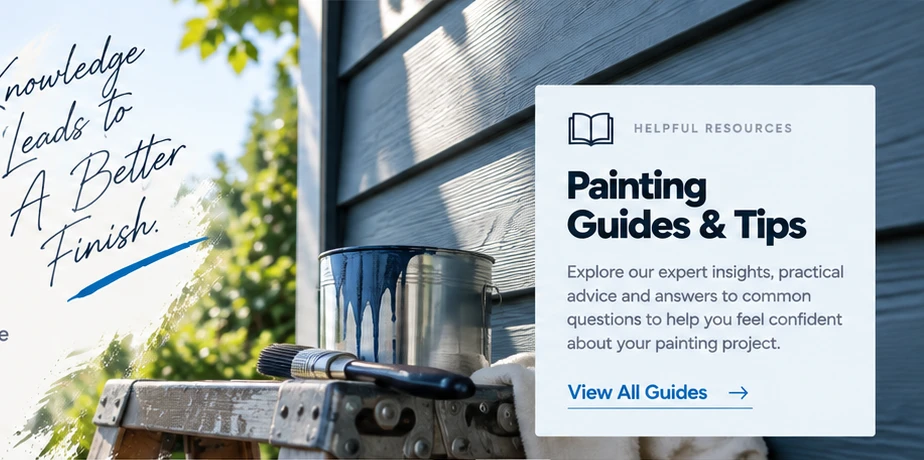
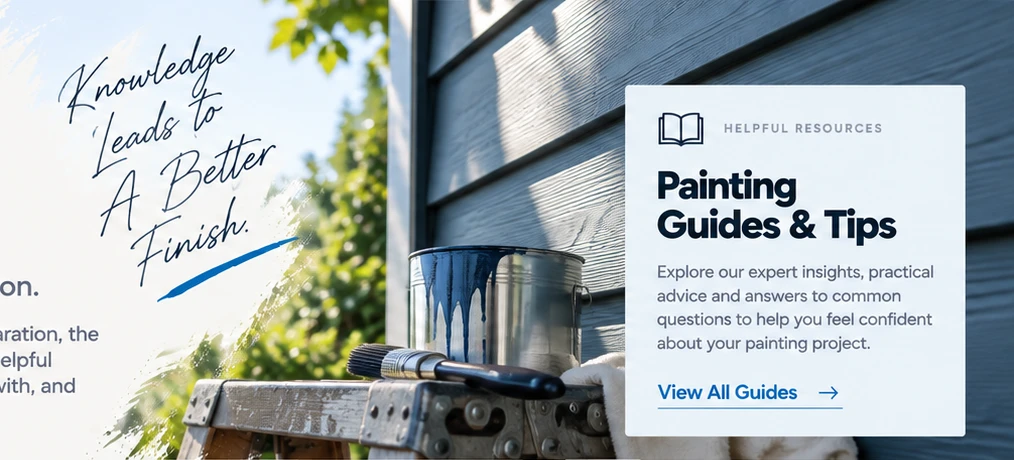
Refine PDF artwork isolation, panel fit and responsive review

diff --git a/app/components/homepage-original.js b/app/components/homepage-original.js
@@ -10,7 +10,7 @@ function Arrow(){return <span aria-hidden="true">⟶</span>}
 function Button({children='Get a Quote',href='#quote',outline=false}){return <a className={'o-button'+(outline?' o-outline':'')} href={href}>{children}<Arrow/></a>}
 function Label({children,center=false}){return <p className={'o-label'+(center?' o-centered':'')}>{children}</p>}
 function Benefits({items,className=''}){return <div className={'o-benefits '+className}>{items.map(([icon,title])=><div key={title}><Icon name={icon}/><strong>{title}</strong></div>)}</div>}
-function Logo({footer=false}){return <a className={'o-logo'+(footer?' o-logo-footer':'')} href="/" aria-label="We Paint Siding home"><img src="/images/wepaintsodinglogo.jpg" alt="We Paint Siding.com" width="1024" height="237"/></a>}
+function Logo({footer=false}){return <a className={'o-logo'+(footer?' o-logo-footer':'')} href="/" aria-label="We Paint Siding home"><img src={footer?'/images/original-home/footer-logo.svg':'/images/wepaintsodinglogo.jpg'} alt="We Paint Siding.com" width="1024" height="237"/></a>}
 function Navigation(){const[mobile,setMobile]=useState(false),[open,setOpen]=useState('');const root=useRef(null),toggle=useRef(null),triggers=useRef({});const close=()=>{setMobile(false);setOpen('')};useEffect(()=>{const handler=e=>{if(e.type==='keydown'&&e.key==='Escape'){if(open){triggers.current[open]?.focus();setOpen('')}else{setMobile(false);toggle.current?.focus()}}else if(e.type==='pointerdown'&&!root.current?.contains(e.target))close()};document.addEventListener('keydown',handler);document.addEventListener('pointerdown',handler);return()=>{document.removeEventListener('keydown',handler);document.removeEventListener('pointerdown',handler)}},[open]);const groups=[['exterior','Exterior Painting','/exterior-painting',surfaces.map(s=>[s.title,'/exterior-painting/'+s.slug])],['interior','Interior Painting','#interior',[['Walls & Ceilings','#interior'],['Trim & Doors','#interior'],['Cabinet Painting','/cabinet-painting']]],['locations','Locations','/locations',locations.map(s=>[s.name,'/locations/'+s.slug])]];return <header className="o-header" ref={root}><Logo/><button className="o-menu-toggle" type="button" ref={toggle} aria-label={mobile?'Close navigation':'Open navigation'} aria-controls="o-navigation" aria-expanded={mobile} onClick={()=>{setMobile(!mobile);setOpen('')}}><span/><span/><span/></button><nav id="o-navigation" className={mobile?'o-navigation o-is-open':'o-navigation'} aria-label="Main navigation"><a className="o-home-link" href="/" aria-current="page">Home</a>{groups.map(([id,name,href,items])=><div className={'o-nav-group o-nav-'+id} key={id} onPointerEnter={e=>{if(e.pointerType==='mouse')setOpen(id)}} onPointerLeave={e=>{if(e.pointerType==='mouse'&&!e.currentTarget.contains(document.activeElement))setOpen('')}} onBlur={e=>{if(!e.currentTarget.contains(e.relatedTarget))setOpen('')}}><div className="o-nav-pair"><a href={href} onClick={close}>{name}</a><button ref={el=>{triggers.current[id]=el}} aria-label={'Show '+name+' menu'} aria-expanded={open===id} aria-controls={'o-drop-'+id} onClick={()=>setOpen(open===id?'':id)}><span/></button></div><div id={'o-drop-'+id} className="o-dropdown" hidden={open!==id}>{items.map(([title,url])=><a key={title} href={url} onClick={close}>{title}<Arrow/></a>)}</div></div>)}<a href="/before-and-after" onClick={close}>Our Work</a><a href="/about" onClick={close}>About Us</a><a href="/faq" onClick={close}>FAQ</a><a href="/contact" onClick={close}>Contact</a><Button/></nav></header>}
 const exteriorIcons=['spray','layers','siding','home','brick','stucco','wood','paint','cabinet','building'];
 const cabinets=[['kitchen','Kitchen Cabinet Painting','Give your kitchen a fresh, modern look with a smooth, durable finish.'],['vanity','Bathroom Vanity Painting','Refresh your bathroom with a clean, stylish finish built to last.'],['cabinet','Cabinet Doors & Drawer Fronts','Update doors and drawer fronts for a like-new look at a lower cost.'],['drawer','Cabinet Frames, Boxes & End Panels','A complete, consistent finish for all visible and functional cabinet components.'],['shelf','Built-In Cabinetry','Enhance your built-ins with a smooth, professional finish that complements your space.']];
@@ -23,7 +23,7 @@ function Quote(){const[status,setStatus]=useState(''),[service,setService]=useSt
 function Footer(){const[status,setStatus]=useState(''),[social,setSocial]=useState('');const groups=[['Our Services',[['Interior Painting','#interior'],['Exterior Painting','/exterior-painting'],['Cabinet Painting','/cabinet-painting'],['Commercial Painting','/exterior-painting/commercial-painting'],['Color Consultation','#quote']]],['Company',[['About Us','/about'],['Our Work','/before-and-after'],['Our Process','#process'],['Painting Knowledge','#knowledge'],['FAQs','/faq'],['Contact Us','/contact']]],['Resources',[['Painting Guides & Tips','/blog'],['Color Ideas','/blog/choosing-a-colour-for-your-home'],['Surface Preparation','/blog/why-surface-preparation-matters'],['Product Recommendations','/blog'],['Maintenance Advice','/blog/caring-for-a-fresh-paint-finish']]]];return <footer className="o-footer"><Art name="footer-top" className="o-footer-top"/><div className="o-footer-grid"><div className="o-footer-brand"><Logo footer/><p>Professional painting services for homes, businesses and communities. We bring color, protection and possibility to every space.</p><div className="o-socials" aria-label="Social profiles">{[['f','Facebook'],['◎','Instagram'],['p','Pinterest'],['▶','YouTube'],['in','LinkedIn']].map(([icon,name])=><button key={name} type="button" aria-label={name} onClick={()=>setSocial(name+' profile link is not available yet.')}>{icon}</button>)}</div><p className="o-social-status" role="status">{social}</p></div>{groups.map(([title,links])=><nav className="o-footer-links" aria-label={title} key={title}><h2>{title}</h2>{links.map(([text,url])=><a key={text} href={url}>{text}</a>)}</nav>)}<div className="o-newsletter"><h2>Stay in touch</h2><p>Get helpful tips, color inspiration and special offers delivered to your inbox.</p><form onSubmit={e=>{e.preventDefault();setStatus('Newsletter registration is not active yet. Your email has not been submitted.')}}><label><span className="o-sr">Your Email Address</span><input type="email" placeholder="Your Email Address" required/></label><button className="o-button">Subscribe<Arrow/></button></form><small><Icon name="shield"/>Registration is not active yet.</small><p className="o-newsletter-status" role="status">{status}</p></div></div><Art name="footer-swash" className="o-footer-swash" alt="More Than Paint. Brighter Tomorrows."/><div className="o-footer-bottom"><span>© {new Date().getFullYear()} We Paint Siding. All rights reserved.</span><nav aria-label="Legal">{[['Privacy Policy','privacy-policy'],['Cookies Policy','cookies-policy'],['Disclaimer','disclaimer'],['Terms of Use','terms-of-use'],['Accessibility','accessibility'],['Sitemap','sitemap']].map(([title,url])=><a key={url} href={'/'+url}>{title}</a>)}</nav><span className="o-footer-motto"><Icon name="leaf"/>Beautiful spaces. Stronger communities.</span></div></footer>}
 export default function OriginalHomepage(){const[faq,setFaq]=useState(0);return <div className="wps-original"><a className="o-skip" href="#o-main">Skip to content</a><Navigation/><main id="o-main">
 <section className="o-hero" aria-labelledby="o-hero-title"><Art name="hero-art" className="o-hero-art" alt="Modern white siding home with original dry-brush artwork. Painting Stronger Communities." eager/><div className="o-hero-copy"><Label>Exterior & Interior Painting</Label><h1 id="o-hero-title">A Fresh Finish<br/><em>for a Brighter<br/>Tomorrow.</em></h1><p>Professional exterior and interior painting for homes and businesses across the GTA, Golden Horseshoe and surrounding communities.</p><div className="o-actions"><Button/><Button href="#services" outline>Explore Our Services</Button></div><Benefits className="o-hero-benefits" items={[["home","Beautiful Exteriors"],["cabinet","Modern Interiors"],["paint","Spaces You’ll Love Longer"]]}/></div><Art name="hero-sign" className="o-hero-sign" alt="More Than Just Paint. People. Properties. Communities."/></section>
-<section className="o-services" id="services" aria-labelledby="o-services-title"><div className="o-services-main"><Art name="services-left" className="o-service-left" alt="White siding exterior framed by original paint strokes"/><Art name="services-right" className="o-service-right" alt="Painted kitchen cabinetry and the original handwritten Same Spaces, Brighter Days artwork"/><div className="o-services-intro"><Label center>Our services</Label><h2 id="o-services-title">What We <em>Paint</em></h2><p>From exterior finishes that protect and impress to beautiful interiors that transform your space, We Paint Siding delivers high-quality finishes for homes and businesses across Ontario.</p></div><div className="o-service-columns"><article><div className="o-service-number"><b>01</b><Label>Exterior surfaces</Label></div><h3>Exterior<br/><em>Painting</em></h3><p>Durable, long-lasting exterior painting for siding, brick, stucco, wood, aluminum and more. We help protect your property from the elements while giving it a fresh, clean and modern look.</p><a className="o-text-link" href="/exterior-painting">Explore Exterior Painting<Arrow/></a></article><Art name="service-divider" className="o-service-divider"/><article><div className="o-service-number"><b>02</b><Label>Interior spaces</Label></div><h3>Interior<br/><em>Painting</em></h3><p>Give your walls, ceilings, trim and cabinets a fresh new look. Our professional interior painting delivers a smooth, durable finish that enhances your space, with cabinet painting included in our interior services.</p><a className="o-text-link" href="#interior">Explore Interior Painting<Arrow/></a></article></div></div><div className="o-service-assurances"><Benefits items={[["shield","Protect Your Property"],["home","Beautiful Results"],["paint","Professional Craftsmanship"],["people","Serving Ontario Communities"]]}/><div className="o-people"><span>More than just paint.</span><strong>People　 |　 Properties　 |　 Communities</strong><i/></div></div></section>
+<section className="o-services" id="services" aria-labelledby="o-services-title"><div className="o-services-main"><Art name="services-left" className="o-service-left" alt="White siding exterior framed by original paint strokes"/><Art name="services-right" className="o-service-right" alt="Painted kitchen cabinetry and the original handwritten Same Spaces, Brighter Days artwork"/><div className="o-services-intro"><Label center>Our services</Label><h2 id="o-services-title">What We <em>Paint</em></h2><p>From exterior finishes that protect and impress to beautiful interiors that transform your space, We Paint Siding delivers high-quality finishes for homes and businesses across Ontario.</p></div><div className="o-service-columns"><article><div className="o-service-number"><b>01</b><Label>Exterior surfaces</Label></div><h3>Exterior<br/><em>Painting</em></h3><p>Durable, long-lasting exterior painting for siding, brick, stucco, wood, aluminum and more. We help protect your property from the elements while giving it a fresh, clean and modern look.</p><a className="o-text-link" href="/exterior-painting">Explore Exterior Painting<Arrow/></a></article><Art name="service-divider" className="o-service-divider"/><article><div className="o-service-number"><b>02</b><Label>Interior spaces</Label></div><h3>Interior<br/><em>Painting</em></h3><p>Give your walls, ceilings, trim and cabinets a fresh new look. Our professional interior painting delivers a smooth, durable finish that enhances your space. Cabinet painting is part of our interior services.</p><a className="o-text-link" href="#interior">Explore Interior Painting<Arrow/></a></article></div></div><div className="o-service-assurances"><Benefits items={[["shield","Protect Your Property"],["home","Beautiful Results"],["paint","Professional Craftsmanship"],["people","Serving Ontario Communities"]]}/><div className="o-people"><span>More than just paint.</span><strong>People　 |　 Properties　 |　 Communities</strong><i/></div></div></section>
 <section className="o-exterior" id="exterior" aria-labelledby="o-exterior-title"><div className="o-feature-main"><Art name="exterior-art" className="o-feature-art" alt="White home with original brush strokes. Built to Withstand More. Weather protection, enhanced curb appeal, long-lasting finishes and a cleaner, brighter home."/><div className="o-feature-copy"><Label>Exterior painting services</Label><h2 id="o-exterior-title">Exterior <em>Painting</em></h2><h3>Protect. Enhance. Add Lasting Value.</h3><p>Your home’s exterior faces changing weather, strong sun, moisture and everyday wear. Our professional exterior painting services help protect your property from the elements while giving it a fresh, modern look. We work with a wide range of exterior surfaces, using high-quality coatings and proven preparation methods to deliver a smooth, durable finish that lasts.</p><p>Whether you’re updating your home, preparing a property for sale, or maintaining a commercial building, We Paint Siding provides reliable exterior painting services across Ontario.</p><div className="o-feature-action"><Button href="/exterior-painting">View All Exterior Painting Services</Button><Benefits items={[["paint","Professional Results You Can Trust"]]}/></div></div></div><div className="o-exterior-strip"><div className="o-strip-label"><Label>Our exterior painting services</Label><span>Different surfaces. A higher standard.</span></div><div className="o-exterior-links">{surfaces.map((s,i)=><a href={'/exterior-painting/'+s.slug} key={s.slug}><Icon name={exteriorIcons[i]}/><span>{s.title.replace('Exterior Spray','Spray').replace('Aluminum Siding','Aluminum')}</span></a>)}</div></div></section>
 <section className="o-process" id="process" aria-labelledby="o-process-title"><div className="o-process-main"><Art name="process-sign" className="o-process-sign" alt="It’s More Than Paint."/><div className="o-process-copy"><Label>Our painting process</Label><h2 id="o-process-title">A Better Finish<br/><em>Starts with a<br/>Smarter Process.</em></h2><p>We follow a detailed, proven process to ensure every project is completed with care, precision and lasting results. From preparation to the final coat, our focus is on quality at every step.</p><div className="o-feature-action"><Button href="#services">Our Services</Button><span className="o-small-motto">Quality process.<br/>Lasting results.</span></div></div><ol className="o-steps">{steps.map(([icon,title,copy,motto],i)=><li key={title}><b>0{i+1}</b><div className="o-step-icon"><Icon name={icon}/></div><h3>{title}</h3><p>{copy}</p><span>{motto}</span></li>)}</ol></div><div className="o-commitment"><Art name="process-photo" className="o-commitment-art" alt="Beautiful Spaces. Brighter Tomorrows. White painted exterior with the original brush edge."/><div className="o-commitment-copy"><div><Icon name="paint"/><span>Our<br/>commitment</span></div><div><h3>More Than a Paint Job.<br/><em>A Higher Standard.</em></h3><p>We combine quality materials, professional techniques and attention to detail to deliver results you can be proud of.</p></div></div></div></section>
 <section className="o-interior" id="interior" aria-labelledby="o-interior-title"><div className="o-feature-main"><Art name="interior-art" className="o-feature-art" alt="Blue painted cabinets with the reference brush edge and handwritten Same Cabinets, A Whole New Look artwork. Cost-effective upgrade, smooth durable finishes and beautiful spaces you’ll love."/><div className="o-feature-copy"><Label>Interior painting services</Label><h2 id="o-interior-title">Interior <em>Painting</em></h2><h3>A Fresh Look for the Heart of Your Home.</h3><p>Our professional interior painting services refresh your walls, ceilings, trim and doors. Cabinet painting is part of our interior service, giving your kitchen, bathroom or built-in cabinetry a clean, modern look without the cost of a full replacement.</p><p>We use high-quality coatings, proven preparation methods and careful attention to detail to deliver a smooth, durable finish that transforms your space.</p><div className="o-feature-action"><Button href="/cabinet-painting">View All Cabinet Painting Services</Button><Benefits items={[["paint","Modern Spaces. Lasting Impressions."]]}/></div></div></div><div className="o-cabinet-strip"><Label>Our cabinet painting services · Part of interior painting</Label><div>{cabinets.map(([icon,title,copy],i)=><a href={'/cabinet-painting/'+cabinetLinks[i].slug} key={title}><Icon name={icon}/><div><h3>{title}</h3><p>{copy}</p></div></a>)}</div></div></section>

diff --git a/public/homepage-review.html b/public/homepage-review.html
@@ -1,1 +1,1 @@
-<!doctype html><html><head><meta name="robots" content="noindex,nofollow"><meta name="viewport" content="width=device-width,initial-scale=1"><title>Homepage responsive review</title><style>*{box-sizing:border-box}body{margin:0;background:#dce1e5;font:14px Arial}header{position:sticky;top:0;z-index:5;padding:12px;display:flex;gap:12px;justify-content:center;background:#0b2538;color:white}button{padding:10px 16px;border:1px solid #a9c0d1;border-radius:4px;cursor:pointer;background:white;color:#06243b}button[aria-pressed=true]{background:#0075b9;color:white}main{padding:20px 0;overflow:auto;text-align:center}iframe{display:block;margin:auto;border:0;background:#fff;width:1280px;height:800px}</style></head><body><header><button data-width="1280" aria-pressed="true">Desktop 1280</button><button data-width="768" aria-pressed="false">Tablet 768</button><button data-width="390" aria-pressed="false">Mobile 390</button><button data-width="360" aria-pressed="false">Small mobile 360</button></header><main><iframe src="/" title="Homepage viewport preview"></iframe></main><script>const f=document.querySelector('iframe');function size(){try{f.style.height=f.contentDocument.documentElement.scrollHeight+'px'}catch{}}f.onload=()=>{new ResizeObserver(size).observe(f.contentDocument.body);f.contentDocument.addEventListener('load',size,true);size()};document.querySelectorAll('button').forEach(b=>b.onclick=()=>{f.style.width=b.dataset.width+'px';document.querySelectorAll('button').forEach(x=>x.setAttribute('aria-pressed',String(x===b)));requestAnimationFrame(size)})</script></body></html>
+<!doctype html><html><head><meta name="robots" content="noindex,nofollow"><meta name="viewport" content="width=device-width,initial-scale=1"><title>Homepage responsive review</title><style>*{box-sizing:border-box}body{margin:0;background:#dce1e5;font:14px Arial}header{position:sticky;top:0;z-index:5;padding:12px;display:flex;gap:12px;justify-content:center;background:#0b2538;color:white}button{padding:10px 16px;border:1px solid #a9c0d1;border-radius:4px;cursor:pointer;background:white;color:#06243b}button[aria-pressed=true]{background:#0075b9;color:white}main{padding:20px 0;overflow:auto;text-align:center}iframe{display:block;margin:auto;border:0;background:#fff;width:1280px;height:800px}</style></head><body><header><button data-width="1280" aria-pressed="true">Desktop 1280</button><button data-width="768" aria-pressed="false">Tablet 768</button><button data-width="390" aria-pressed="false">Mobile 390</button><button data-width="360" aria-pressed="false">Small mobile 360</button></header><main><iframe title="Homepage viewport preview"></iframe></main><script>const f=document.querySelector('iframe');fetch('/').then(r=>r.text()).then(html=>{f.srcdoc=html});function size(){try{f.style.height=f.contentDocument.documentElement.scrollHeight+'px'}catch{}}f.onload=()=>{new ResizeObserver(size).observe(f.contentDocument.body);f.contentDocument.addEventListener('load',size,true);size()};document.querySelectorAll('button').forEach(b=>b.onclick=()=>{f.style.width=b.dataset.width+'px';document.querySelectorAll('button').forEach(x=>x.setAttribute('aria-pressed',String(x===b)));requestAnimationFrame(size)})</script></body></html>

diff --git a/app/homepage-original.css b/app/homepage-original.css
@@ -48,3 +48,33 @@
 @media(prefers-reduced-motion:reduce){.wps-original *{scroll-behavior:auto;transition:none!important}}
 .wps-original .o-picture{display:block;overflow:hidden}.wps-original .o-picture>.o-art{width:100%;height:100%;object-fit:fill}.wps-original .o-social-status:empty{display:none}@media(max-width:760px){.wps-original .o-picture>.o-art{object-fit:cover;object-position:left}}
 @media(min-width:1101px){.wps-original .o-quote-form{min-height:30.5vw}}
+/* Visual comparison corrections: isolate artwork from flattened demo copy. */
+@media(min-width:761px){
+ .wps-original .o-hero-art{clip-path:polygon(0 0,100% 0,100% 100%,22% 100%,18% 82%,7% 63%,7% 44%,0 19%)}
+ .wps-original .o-service-right{clip-path:polygon(0 0,100% 0,100% 100%,0 100%,8% 88%,8% 43%,0 38%)}
+ .wps-original .o-exterior .o-feature-art{clip-path:polygon(0 0,100% 0,100% 100%,5% 100%,5% 76%,0 76%)}
+ .wps-original .o-work-art{clip-path:polygon(0 0,100% 0,100% 100%,12% 100%,12% 30%)}
+ .wps-original .o-about-art{clip-path:polygon(0 0,100% 0,100% 100%,0 100%,8% 87%,8% 32%)}
+ .wps-original .o-knowledge-art{width:57.16%;clip-path:polygon(0 0,100% 0,100% 100%,10% 100%,10% 55%,0 55%)}
+ .wps-original .o-service-columns article>p{font-size:1.02vw;line-height:1.33;margin-bottom:1.4vw}
+ .wps-original .o-process-copy h2{font-size:3.5vw;letter-spacing:-.06em}
+ .wps-original .o-process-copy>p{font-size:1.05vw}
+ .wps-original .o-steps{top:8vw}
+ .wps-original .o-steps p{font-family:Arial,sans-serif;font-size:.94vw;line-height:1.32;min-height:7.8vw}
+ .wps-original .o-guide-callout{padding:1.3vw 1.6vw}
+ .wps-original .o-guide-callout h3{font-size:1.95vw}
+ .wps-original .o-guide-callout p{font-family:Arial,sans-serif;font-size:1vw;line-height:1.3;margin:.9vw 0 1.2vw}
+ .wps-original .o-guide-callout .o-label{font-size:.58vw;margin-bottom:.8vw}
+ .wps-original .o-guide-callout .o-label svg{width:1.9vw;height:1.9vw}
+}
+.wps-original .o-feature-copy{z-index:3}.wps-original .o-project-caption,.wps-original .o-work-feature-caption{background:#042333}
+/* Artwork crops remain clean when they stack on small screens. */
+.wps-original .o-hero-art{clip-path:polygon(0 0,100% 0,100% 100%,22% 100%,18% 82%,7% 63%,7% 44%,0 19%)}
+.wps-original .o-service-right{clip-path:polygon(0 0,100% 0,100% 100%,0 100%,8% 88%,8% 43%,0 38%)}
+.wps-original .o-exterior .o-feature-art{clip-path:polygon(0 0,100% 0,100% 100%,5% 100%,5% 76%,0 76%)}
+.wps-original .o-work-art{clip-path:polygon(0 0,100% 0,100% 100%,12% 100%,12% 30%)}
+.wps-original .o-about-art{clip-path:polygon(0 0,100% 0,100% 100%,0 100%,8% 87%,8% 32%)}
+.wps-original .o-quote-art{clip-path:polygon(0 0,100% 0,100% 100%,10% 100%,10% 65%,0 45%)}
+.wps-original .o-logo-footer img{filter:none;mix-blend-mode:normal}
+@media(min-width:761px){.wps-original .o-quote-copy h2{font-size:3.8vw}.wps-original .o-quote-copy .o-label{margin-bottom:1.5vw}.wps-original .o-quote-copy>p{font-size:1.08vw;line-height:1.32;margin:1.1vw 0}.wps-original .o-quote-copy .o-benefits{margin-top:1.1vw}}
+@media(max-width:760px){.wps-original .o-knowledge-art{clip-path:polygon(0 0,100% 0,100% 100%,16% 100%,16% 55%,0 55%)}.wps-original .o-quote-art{clip-path:polygon(0 0,100% 0,100% 100%,10% 100%,10% 65%,0 45%)}}
